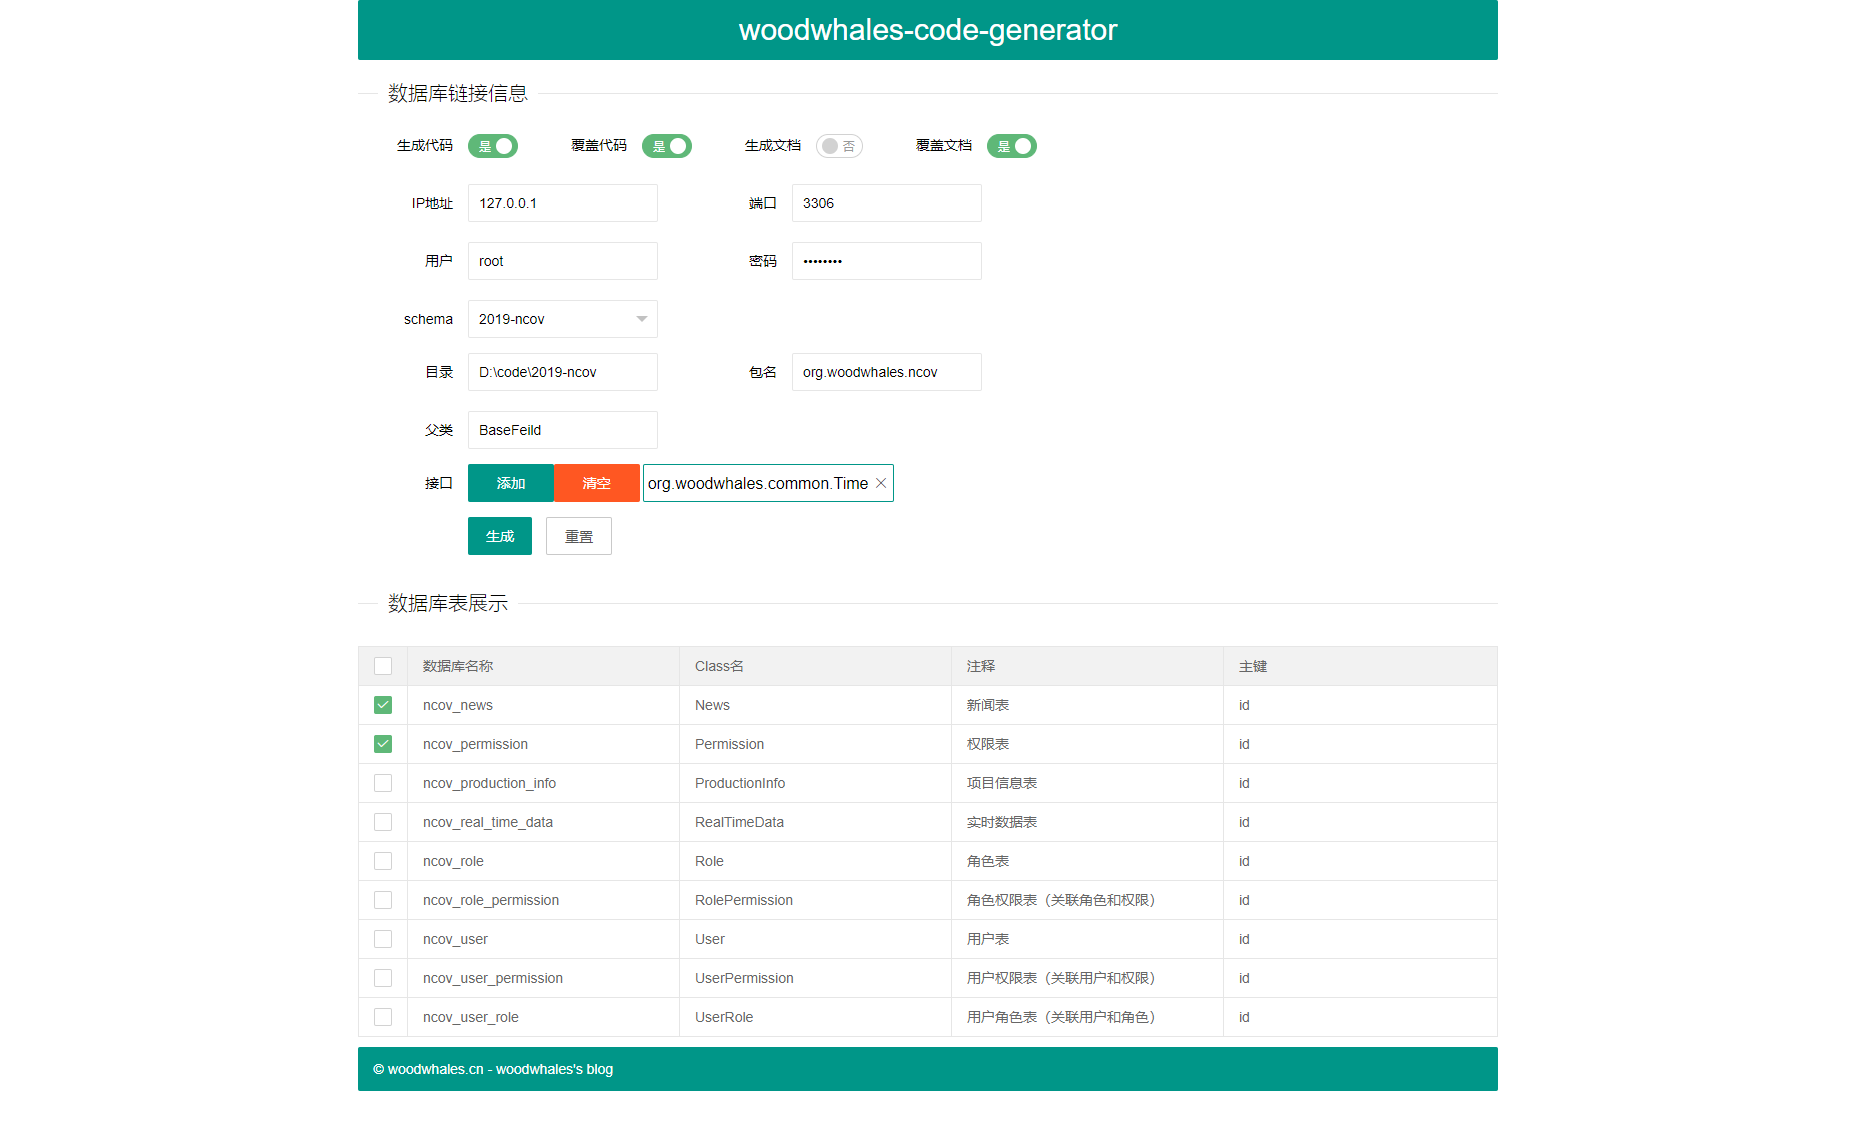
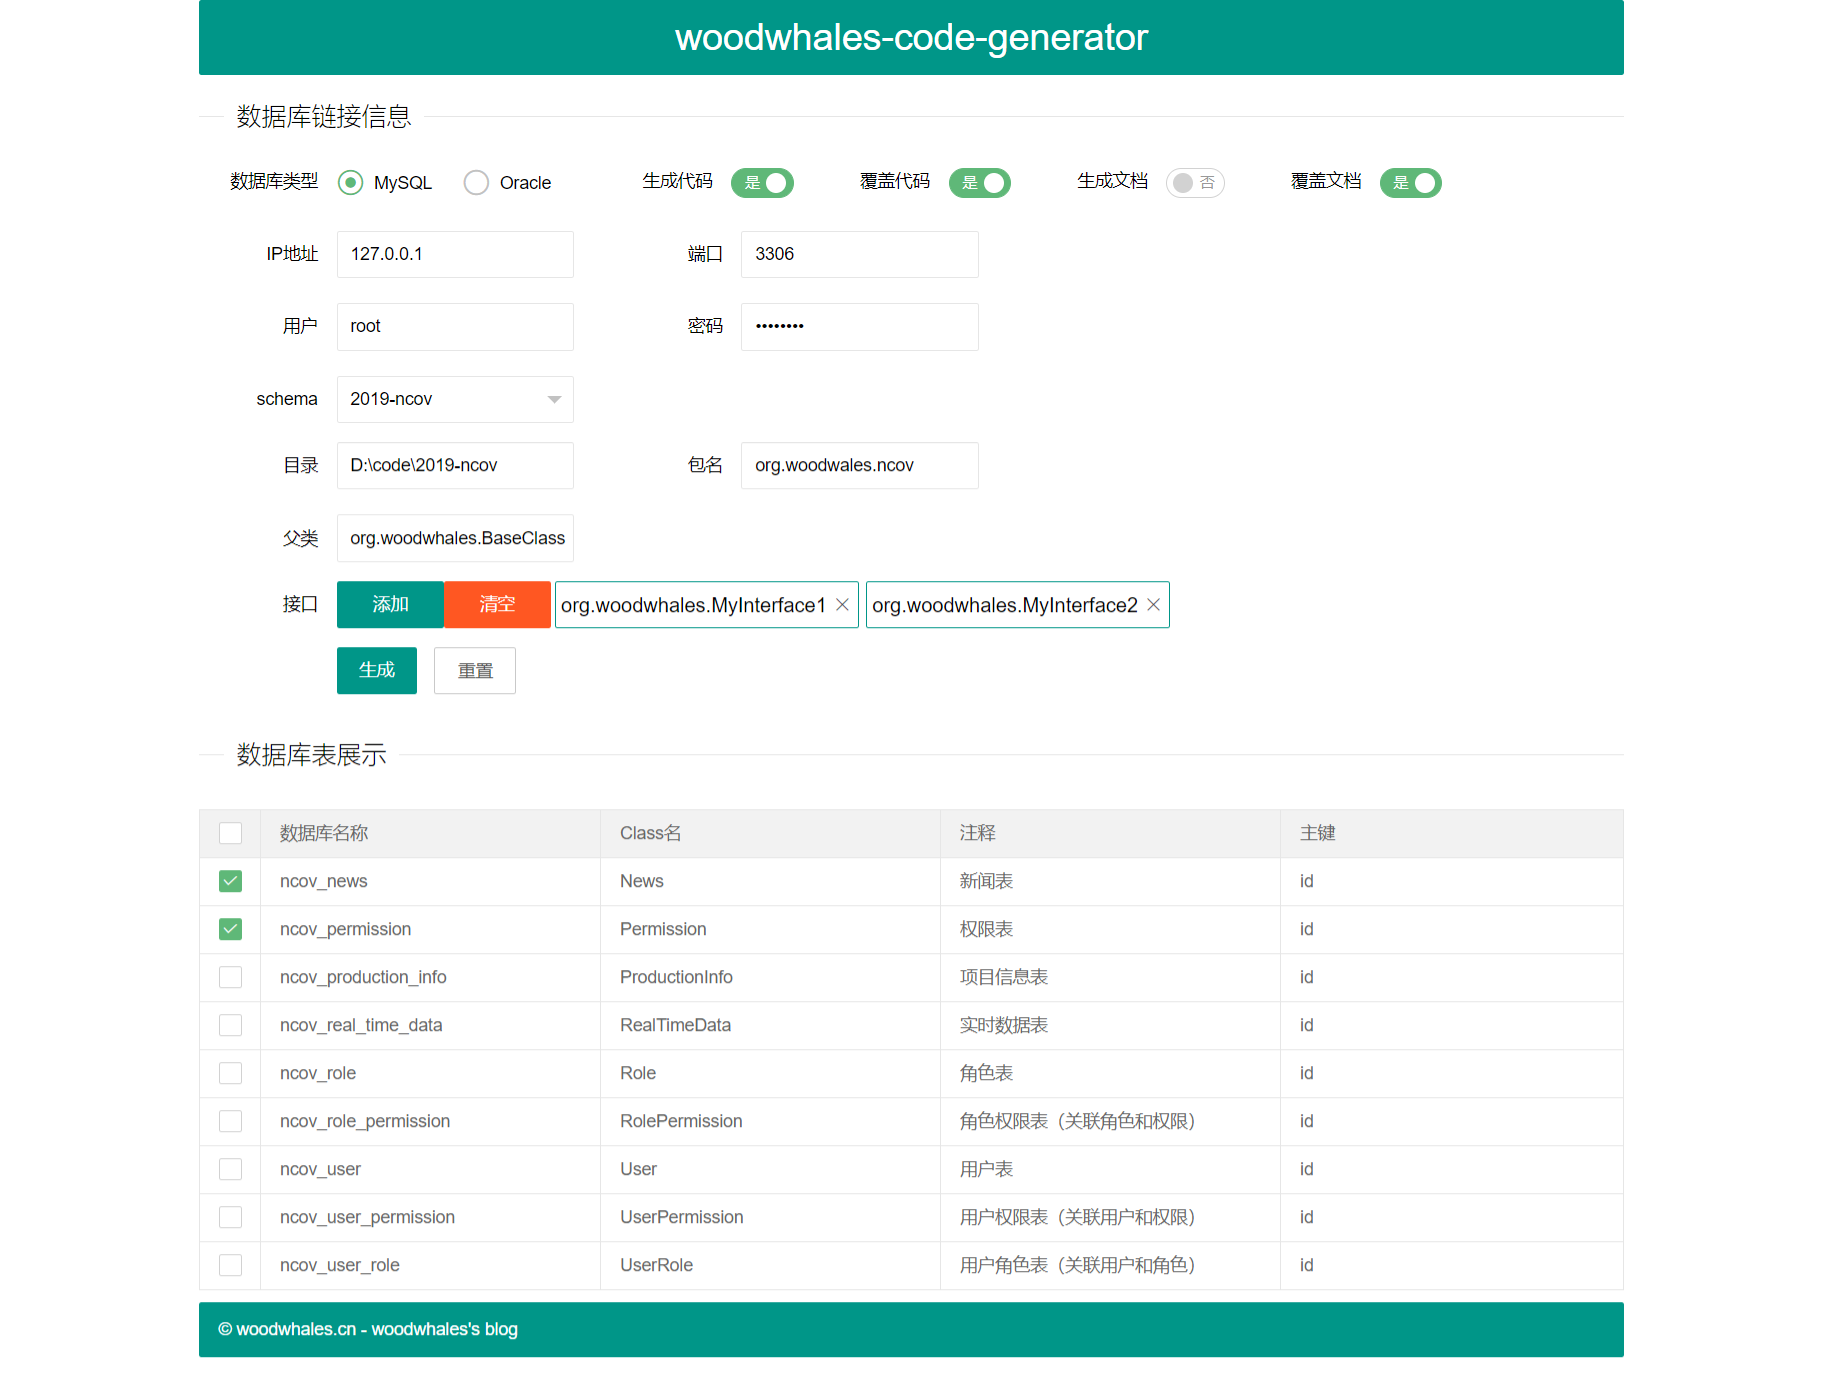
support oracle database

diff --git a/src/main/resources/templates/index.html b/src/main/resources/templates/index.html
@@ -18,6 +18,14 @@
 <form class="layui-form">
   <div class="layui-form-item">
     <div class="layui-inline">
+      <label class="layui-form-label">数据库类型</label>
+      <div class="layui-input-block">
+        <input type="radio" name="dbType" lay-filter="dbType-filter" value="MYSQL" title="MySQL" checked="">
+        <input type="radio" name="dbType" lay-filter="dbType-filter" value="ORACLE" title="Oracle">
+        <input type="text" name="driveClassName" id="driveClassName" style="display: none" autocomplete="off" class="layui-input" value="com.mysql.cj.jdbc.Driver">
+      </div>
+    </div>
+    <div class="layui-inline">
       <label class="layui-form-label">生成代码</label>
       <div class="layui-input-block">
         <input type="checkbox" name="generateCode" checked="" lay-skin="switch" lay-text="是|否">
@@ -52,13 +60,13 @@
     <div class="layui-inline">
       <label class="layui-form-label">端口</label>
       <div class="layui-input-inline">
-        <input type="text" name="port" lay-verify="required" autocomplete="off" class="layui-input" value="3306">
+        <input type="text" name="port" id="port" lay-verify="required" autocomplete="off" class="layui-input" placeholder="请输入端口号" value="3306">
       </div>
     </div>
-    <div class="layui-inline">
+    <div class="layui-inline" id="sidDivId" style="display: none">
       <label class="layui-form-label">SID</label>
       <div class="layui-input-inline">
-        <input type="text" name="sid" lay-verify="required" autocomplete="off" class="layui-input" value="orcl">
+        <input type="text" name="sid" id="sid" lay-verify="required" autocomplete="off" placeholder="请输入SID" class="layui-input" value="orcl">
       </div>
     </div>
   </div>
@@ -143,6 +151,18 @@
 	layer = layui.layer,
 	table = layui.table
 	;
+
+    form.on('radio(dbType-filter)', function(data){
+      if(data.value === 'MYSQL') {
+        $('#driveClassName').val('com.mysql.cj.jdbc.Driver');
+        $('#port').val(3306);
+        sidRemoveAttr();
+      } else {
+        $('#driveClassName').val('oracle.jdbc.OracleDriver');
+        $('#port').val(1521);
+        sidAddAttr();
+      }
+    });
 
 	$('#resetBtnId').click(function () {
 

diff --git a/src/main/resources/static/js/my.js b/src/main/resources/static/js/my.js
@@ -74,6 +74,18 @@ function packageNameRemoveAttr() {
     $('#packageName').removeAttr("lay-verify");
 }
 
+function sidAddAttr() {
+    $('#sidDivId').show();
+    $('#sid').attr('lay-verify','required');
+    $('#sid').show();
+}
+
+function sidRemoveAttr() {
+    $('#sid').removeAttr("lay-verify");
+    $('#sid').hide();
+    $('#sidDivId').hide();
+}
+
 function packageNameAddAttr() {
     $('#packageName').attr('lay-verify','required');
 }

diff --git a/src/main/java/org/woodwhales/generator/constant/MyConstant.java b/src/main/java/org/woodwhales/generator/constant/MyConstant.java
@@ -10,7 +10,8 @@ public class MyConstant {
 
 	public static final String mysql_Template_Url_Without_Schema = "jdbc:mysql://[ip]:[port]?useUnicode=yes&characterEncoding=UTF-8&useSSL=false&serverTimezone=Asia/Shanghai&useInformationSchema=true";
 
+	public static final String mysql_Template_Url = "jdbc:mysql://[ip]:[port]/[schema]?useUnicode=yes&characterEncoding=UTF-8&useSSL=false&serverTimezone=Asia/Shanghai&useInformationSchema=true";
+
 	public static final String oracle_Template_Url = "jdbc:oracle:thin:@[ip]:[port]:[sid]";
 
-	public static final String mysql_Template_Url = "jdbc:mysql://[ip]:[port]/[schema]?useUnicode=yes&characterEncoding=UTF-8&useSSL=false&serverTimezone=Asia/Shanghai&useInformationSchema=true";
 }

diff --git a/src/main/java/org/woodwhales/generator/entity/DataBaseInfo.java b/src/main/java/org/woodwhales/generator/entity/DataBaseInfo.java
@@ -25,7 +25,9 @@ public class DataBaseInfo {
 	
 	private String ip; 
 	
-	private Integer port; 
+	private Integer port;
+
+	private String sid;
 	
 	private String username; 
 	
@@ -128,15 +130,11 @@ public class DataBaseInfo {
 		}
 
 		if(StringUtils.equals(dbType, "ORACLE")) {
-			if(StringUtils.isNotBlank(this.schema)) {
+			if(StringUtils.isNotBlank(this.sid)) {
 				url = MyConstant.oracle_Template_Url
 						.replace("[ip]", this.ip)
 						.replace("[port]", this.port+"")
-						.replace("[schema]", this.schema);
-			} else {
-				url = MyConstant.oracle_Template_Url
-						.replace("[ip]", this.ip)
-						.replace("[port]", this.port+"");
+						.replace("[sid]", this.sid);
 			}
 		}
 

diff --git a/src/main/java/org/woodwhales/generator/controller/request/BuildConnectionRequestBody.java b/src/main/java/org/woodwhales/generator/controller/request/BuildConnectionRequestBody.java
@@ -31,4 +31,6 @@ public class BuildConnectionRequestBody {
     @NotBlank(message = "驱动类名为空")
     private String driveClassName;
 
+    private String sid;
+
 }
